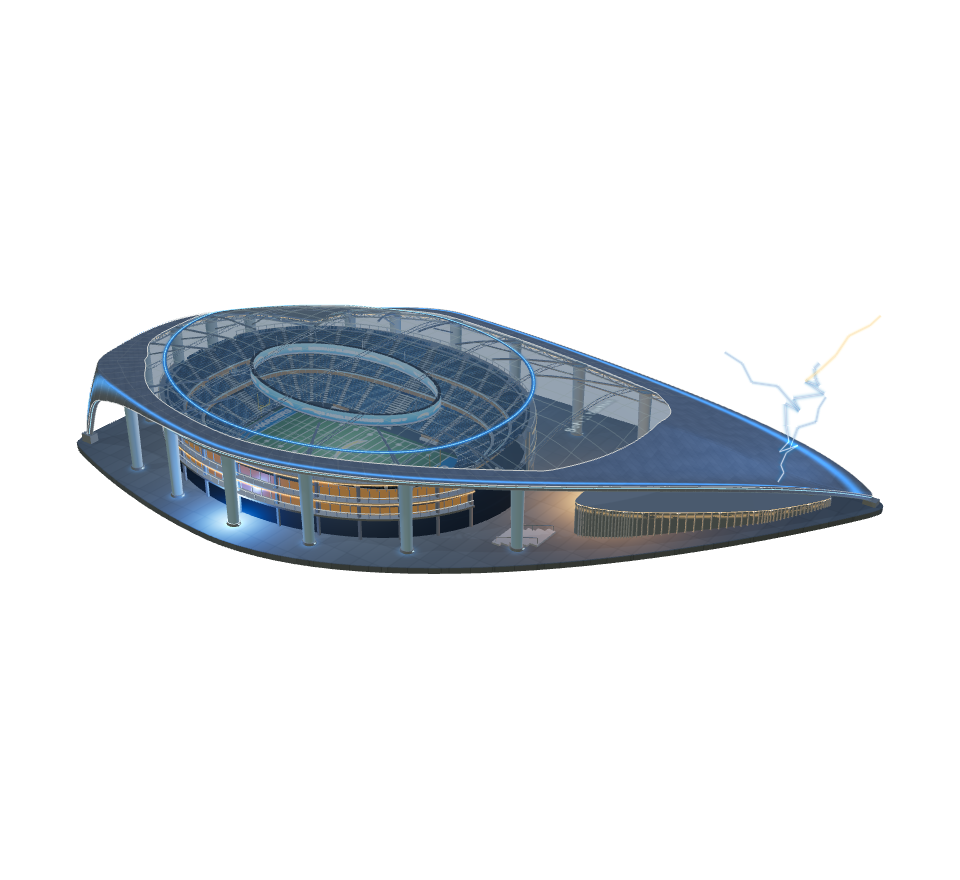
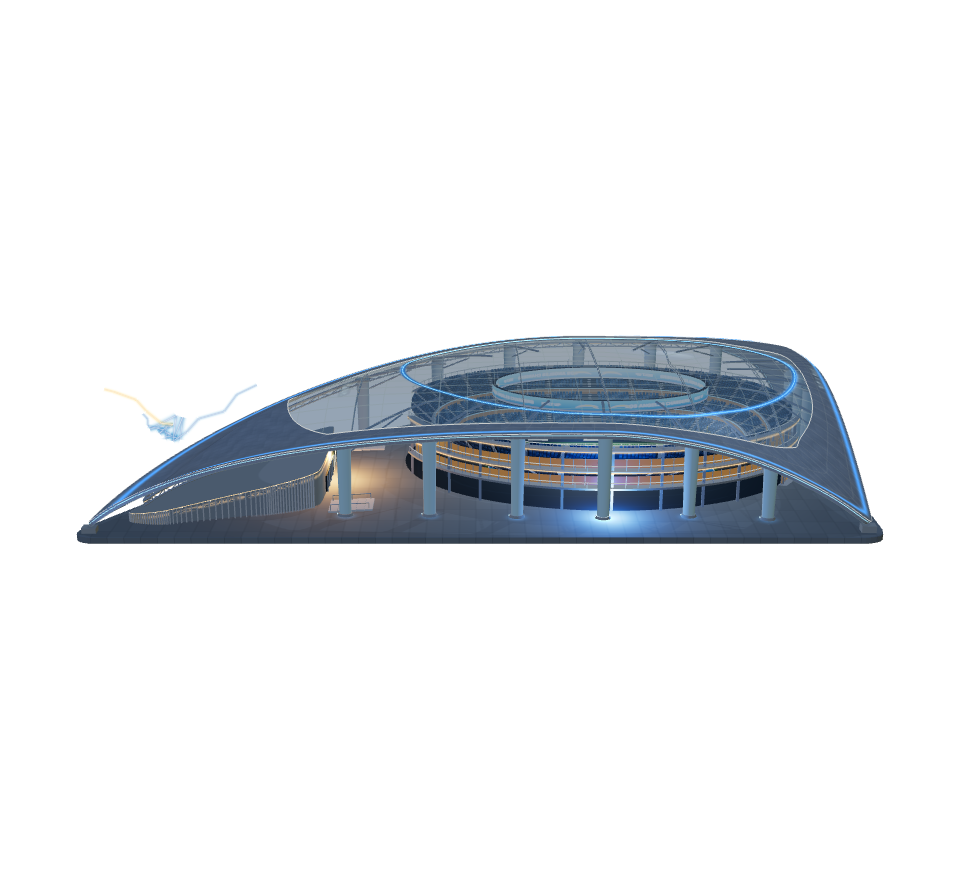
Match stadium opening camera to the selected side perspective

Changed region(s): [[0.0625, 0.3375, 0.9375, 0.675], [0.875, 0.3682, 0.9062, 0.3989]]

diff --git a/assets/stadium.js b/assets/stadium.js
@@ -11,6 +11,9 @@ import { createFieldTexture, createBoardTexture, createCladdingTexture, createFr
 
 const TAU = Math.PI * 2;
 const v3 = (x, y, z) => new THREE.Vector3(x, y, z);
+// Low side elevation, with the theater to the left and the long foundation
+// edge level, matching the chosen opening view. Keep the editor's 3/4 view.
+const homeCameraPosition = [3.891, 12.276, -36.98];
 const framingFov = aspect => Math.max(33, THREE.MathUtils.radToDeg(
   2 * Math.atan(Math.tan(THREE.MathUtils.degToRad(42) / 2) / aspect)));
 
@@ -464,7 +467,8 @@ export async function mountStadium(figure, showFallback, options = {}) {
   const camera = new THREE.PerspectiveCamera(33, 1, .1, 150);
   // Balance the widened, offset sail in the frame, including its low point.
   const target = v3(1.65, .4, -.5);
-  const initialPosition = v3(19.5, 19, 28);
+  const initialPosition = options.presentation === 'homepage'
+    ? v3(...homeCameraPosition) : v3(19.5, 19, 28);
   camera.position.copy(initialPosition);
   const controls = new OrbitControls(camera, canvas);
   controls.target.copy(target);
@@ -671,7 +675,7 @@ export async function mountStadium(figure, showFallback, options = {}) {
     if (lost || disposed) throw new Error('The 3D preview is unavailable.');
     const size = renderer.getSize(new THREE.Vector2()), ratio = renderer.getPixelRatio();
     const posterCamera = new THREE.PerspectiveCamera(framingFov(960 / 880), 960 / 880, .1, 150);
-    posterCamera.position.copy(initialPosition); posterCamera.lookAt(target);
+    posterCamera.position.set(...homeCameraPosition); posterCamera.lookAt(target);
     frameStadiumCamera(THREE, posterCamera, modelData.framingSurfaces, 960, 880);
     const effectTime = lightning.uniforms.uTime.value;
     try {

diff --git a/assets/STADIUM.md b/assets/STADIUM.md
@@ -78,7 +78,9 @@ count are stylized; no third-party stadium mesh or photograph is included.
 - `stadium.js` builds the exterior architecture, lighting and camera controls.
 - `stadium-framing.js` centers the projected building outline beside the text,
   enlarging the homepage view by up to 28% while preserving edge clearance.
-  Poster exports share this framing; the editor keeps its working camera.
+  The opening view is a low side elevation with the theater on the left and
+  the long foundation edge level. Poster exports share this view and framing;
+  the editor keeps its working camera and original 3/4 inspection view.
 - `stadium-interior.js` builds the batched seating, concourses, field and screen.
   It is independent of the DOM and has a bounded geometry budget.
 - `stadium-textures.js` generates the cladding, ETFE frit, paving, pitch, screen
